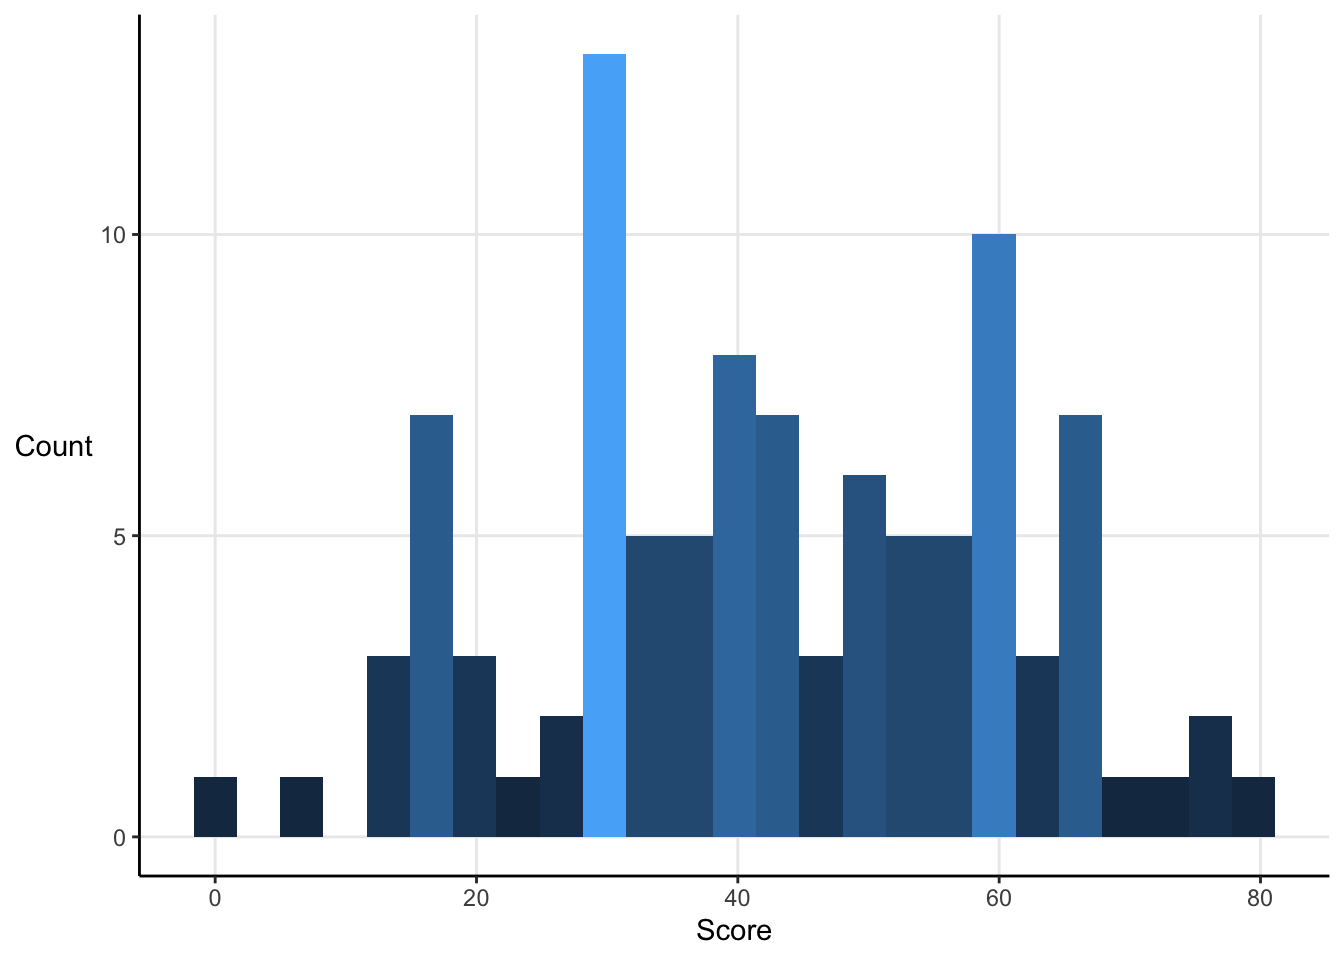
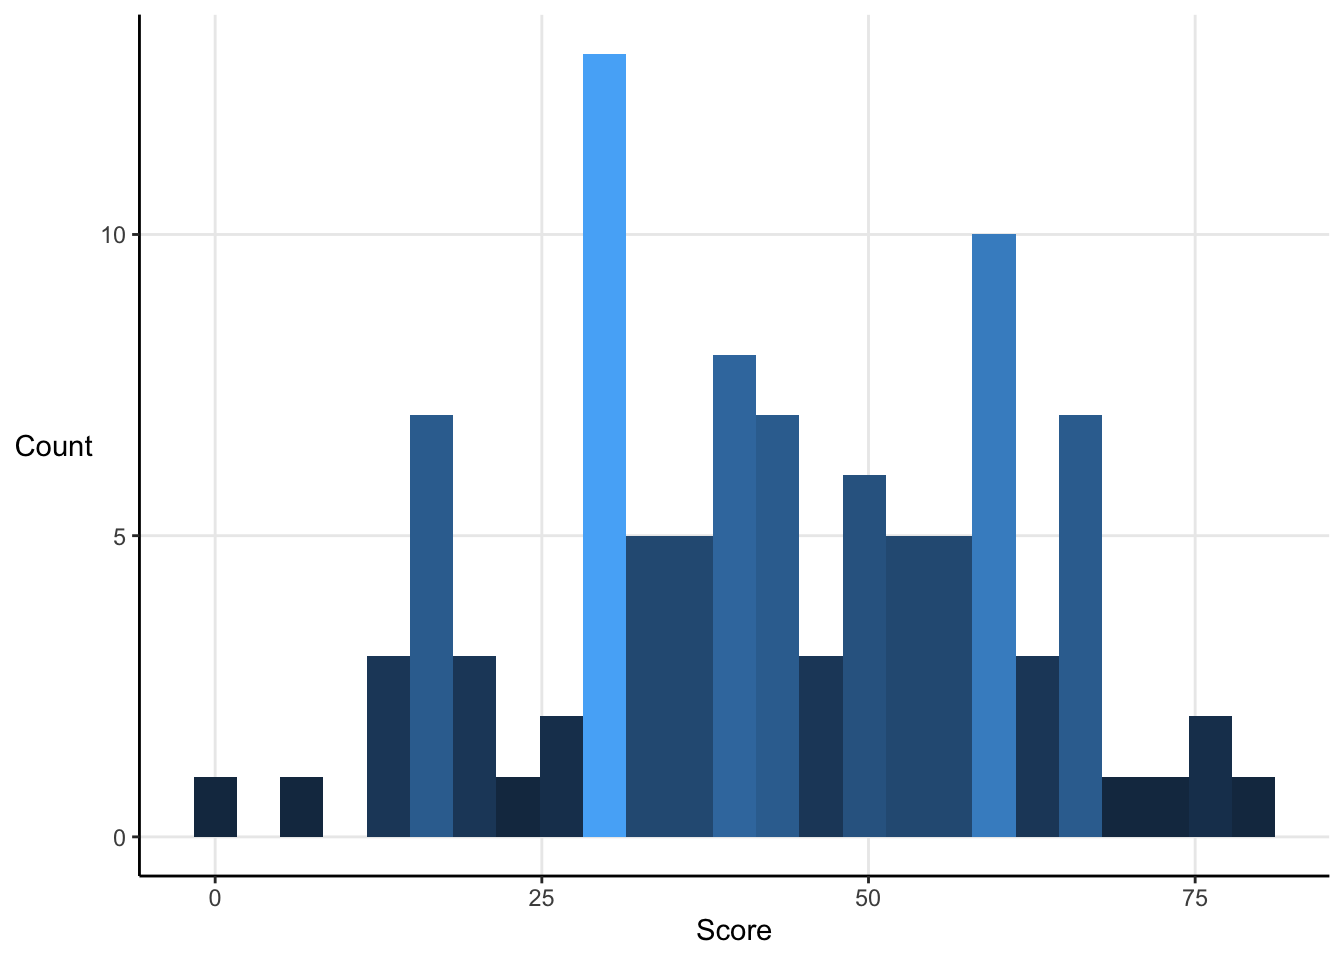
changed axes breaks

diff --git a/content/summaries/lies_and_stats.html b/content/summaries/lies_and_stats.html
@@ -206,7 +206,7 @@ ggplot(quarterly_sales, aes(x = quarter, y = sales)) +
 ggplot(maths_test, aes(x = score, fill = ..count..)) +
   geom_histogram(breaks = c(seq(10, 74, 4), 90)) +
   scale_y_continuous(&quot;Count&quot;) +
-  scale_x_continuous(&quot;Score&quot;) +
+  scale_x_continuous(&quot;Score&quot;, breaks = c(0, 25, 50, 75)) +
   scale_fill_continuous(guide = &quot;none&quot;) +
   theme_classic() +
   theme(axis.title.y = element_text(angle = 0, vjust = 0.5),
@@ -218,7 +218,7 @@ ggplot(maths_test, aes(x = score, fill = ..count..)) +
 ggplot(maths_test, aes(x = score, fill = ..count..)) +
   geom_histogram(bins = 25) +
   scale_y_continuous(&quot;Count&quot;) +
-  scale_x_continuous(&quot;Score&quot;) +
+  scale_x_continuous(&quot;Score&quot;, breaks = c(0, 25, 50, 75)) +
   scale_fill_continuous(guide = &quot;none&quot;) +
   theme_classic() +
   theme(axis.title.y = element_text(angle = 0, vjust = 0.5),

diff --git a/public/summaries/lies_and_stats/index.html b/public/summaries/lies_and_stats/index.html
@@ -301,7 +301,7 @@ ggplot(quarterly_sales, aes(x = quarter, y = sales)) +
 ggplot(maths_test, aes(x = score, fill = ..count..)) +
   geom_histogram(breaks = c(seq(10, 74, 4), 90)) +
   scale_y_continuous(&quot;Count&quot;) +
-  scale_x_continuous(&quot;Score&quot;) +
+  scale_x_continuous(&quot;Score&quot;, breaks = c(0, 25, 50, 75)) +
   scale_fill_continuous(guide = &quot;none&quot;) +
   theme_classic() +
   theme(axis.title.y = element_text(angle = 0, vjust = 0.5),
@@ -313,7 +313,7 @@ ggplot(maths_test, aes(x = score, fill = ..count..)) +
 ggplot(maths_test, aes(x = score, fill = ..count..)) +
   geom_histogram(bins = 25) +
   scale_y_continuous(&quot;Count&quot;) +
-  scale_x_continuous(&quot;Score&quot;) +
+  scale_x_continuous(&quot;Score&quot;, breaks = c(0, 25, 50, 75)) +
   scale_fill_continuous(guide = &quot;none&quot;) +
   theme_classic() +
   theme(axis.title.y = element_text(angle = 0, vjust = 0.5),
